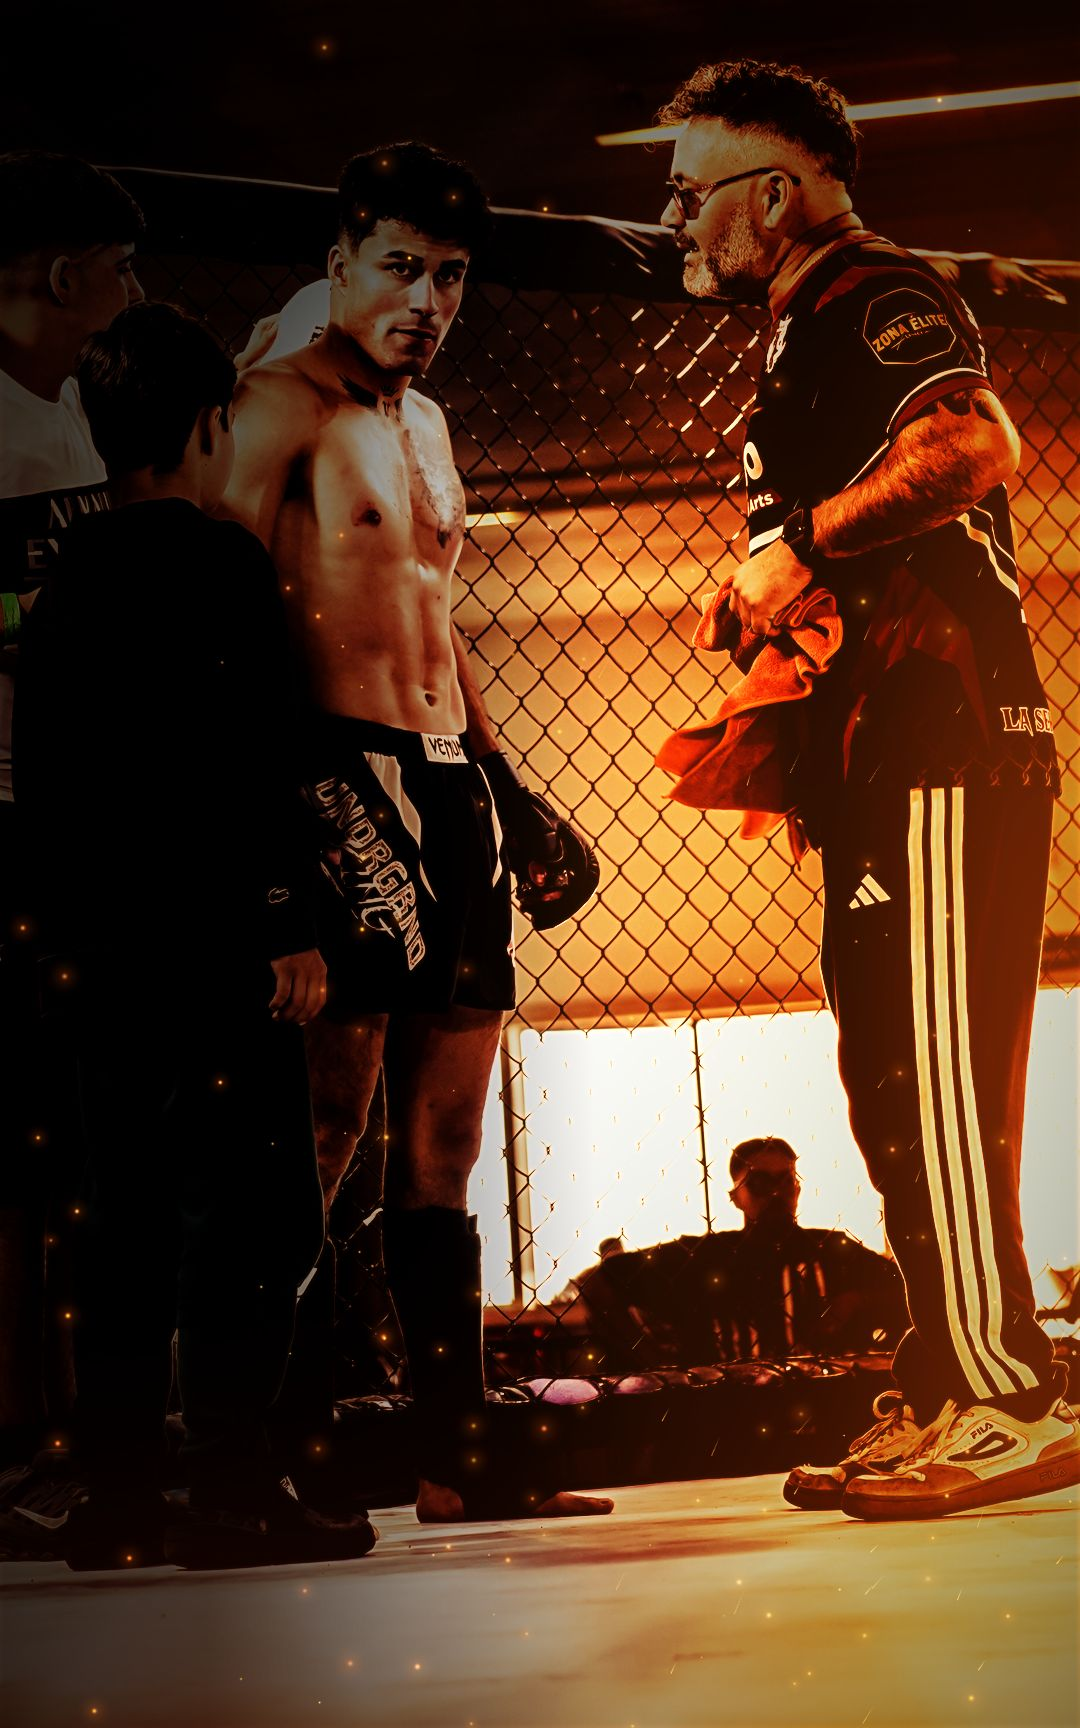
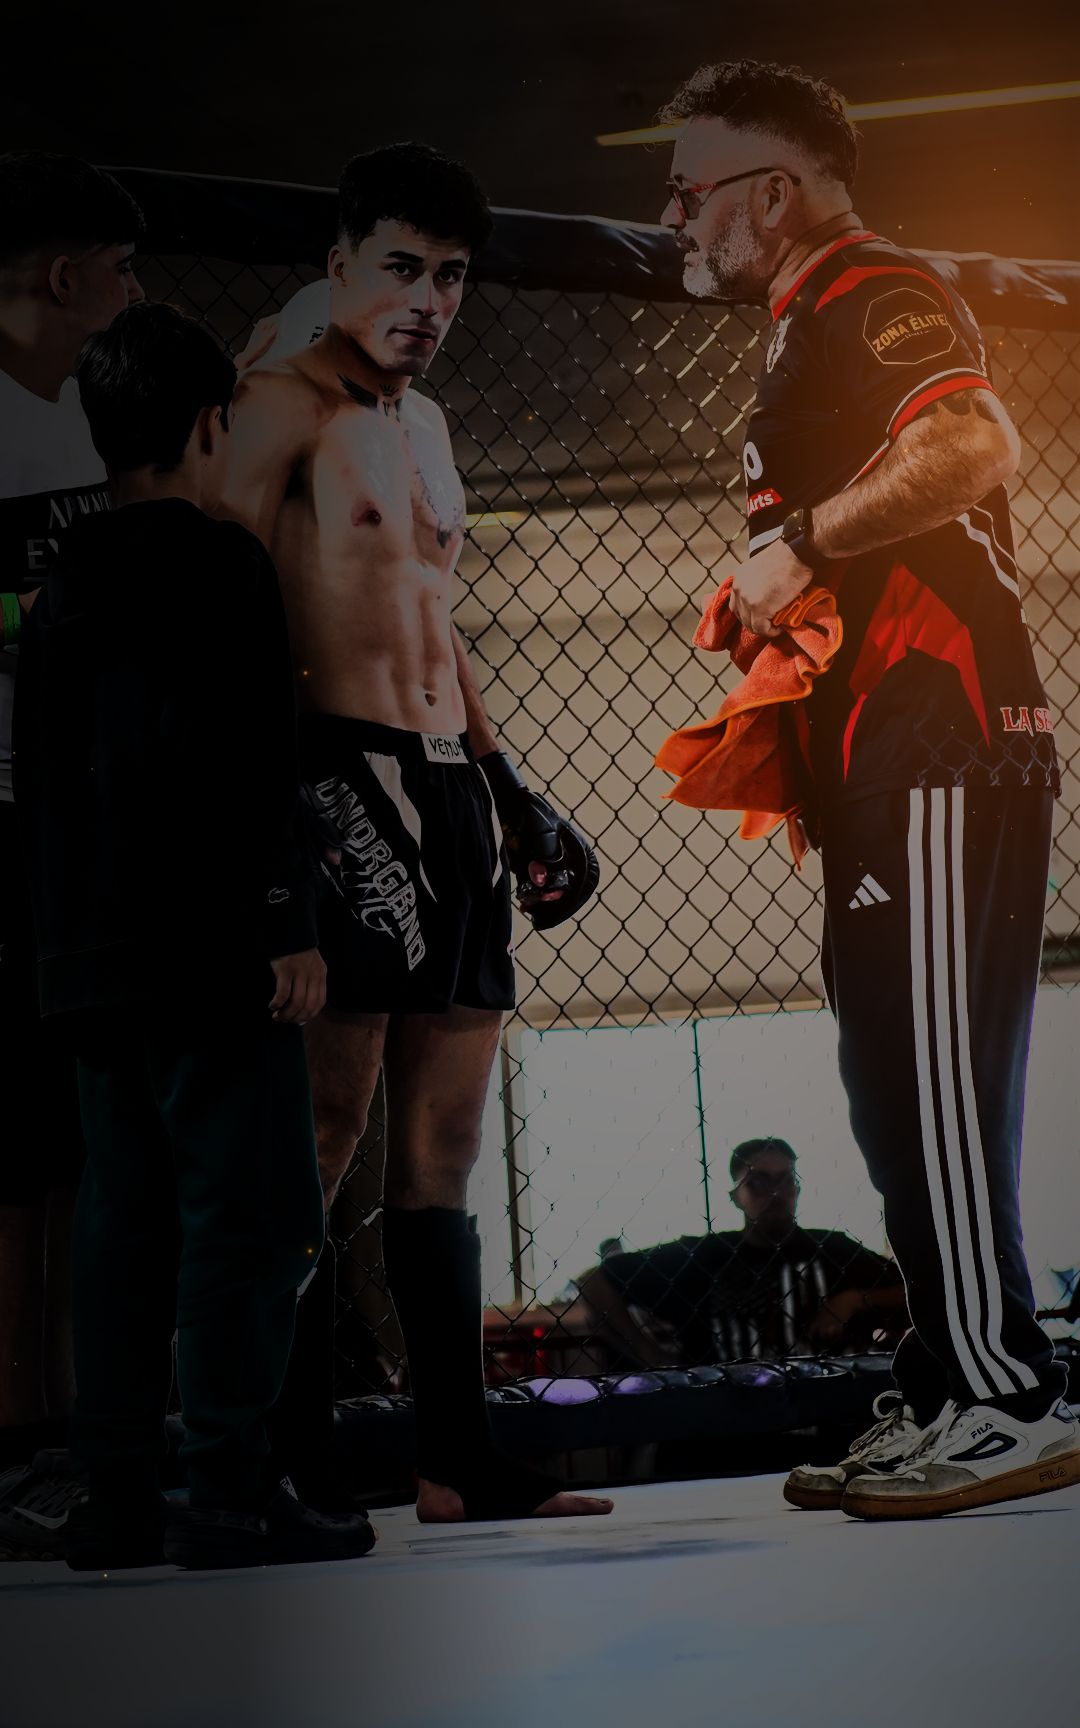
pruebs de color en el gradiente

diff --git a/src/app/globals.css b/src/app/globals.css
@@ -233,7 +233,7 @@ body {
   }
 }
 
-/* Resplandor de fuego que "respira" en la esquina inferior derecha */
+/* Aura sutil que "respira" detrás del maestro (lado derecho) */
 @keyframes fire-flicker {
   0%, 100% { opacity: 0.75; }
   20% { opacity: 0.95; }
@@ -243,11 +243,10 @@ body {
 
 .hero-fire-flicker {
   background: radial-gradient(
-      60% 55% at 100% 85%,
-      rgba(255, 90, 20, 0.35),
-      transparent 70%
-    ),
-    radial-gradient(45% 35% at 70% 105%, rgba(229, 38, 27, 0.3), transparent 70%);
+    35% 50% at 92% 40%,
+    rgba(255, 110, 30, 0.14),
+    transparent 70%
+  );
   mix-blend-mode: screen;
   animation: fire-flicker 3.5s ease-in-out infinite;
   pointer-events: none;

diff --git a/src/components/Hero.tsx b/src/components/Hero.tsx
@@ -1,9 +1,9 @@
 import Link from "next/link";
 
 // Brasas ascendentes (deterministas para no romper la hidratación).
-// Se concentran en la mitad derecha, donde la foto tiene el fuego.
-const embers = Array.from({ length: 22 }, (_, i) => ({
-  left: `${i % 3 === 0 ? (i * 37) % 100 : 45 + ((i * 29) % 55)}%`,
+// Se concentran a la derecha, en el aura detrás del maestro.
+const embers = Array.from({ length: 16 }, (_, i) => ({
+  left: `${i % 4 === 0 ? (i * 37) % 100 : 60 + ((i * 29) % 40)}%`,
   size: 3 + ((i * 7) % 6),
   duration: 6 + ((i * 5) % 8),
   delay: (i * 0.6) % 9,

diff --git a/scripts/grade-hero-image.py b/scripts/grade-hero-image.py
@@ -1,4 +1,4 @@
-"""Genera el fondo del hero (estilo 'fuego cinematográfico') desde la foto original.
+"""Genera el fondo del hero (tono natural + aura de fuego tras el maestro) desde la foto original.
 
 Requiere Pillow y numpy (pip install pillow numpy).
 Uso:
@@ -18,84 +18,63 @@ full = Image.open(src).convert("RGB")
 W, H = full.size  # 2624x3936
 
 
-def grade(img: Image.Image, people_box) -> Image.Image:
+def grade(img: Image.Image, aura) -> Image.Image:
+    """Tono natural con contraste cinematográfico y un aura naranja sutil
+    detrás del maestro. `aura` = (cx, cy, rx, ry) normalizados al recorte."""
     w, h = img.size
     a = np.asarray(img).astype(np.float32) / 255.0
 
-    # Luminancia
-    lum = 0.2126 * a[..., 0] + 0.7152 * a[..., 1] + 0.0722 * a[..., 2]
-
-    # Máscara "fondo brillante" (techo, focos, ventanas, lona blanca):
-    # se oscurece mucho para que todo lo plano quede en penumbra.
     yy, xx = np.mgrid[0:h, 0:w].astype(np.float32)
     nx, ny = xx / w, yy / h
-    x0, y0, x1, y1 = people_box
-    # distancia normalizada a la caja de los personajes (0 adentro)
-    dx = np.maximum(0, np.maximum(x0 - nx, nx - x1))
-    dy = np.maximum(0, np.maximum(y0 - ny, ny - y1))
-    outside = np.clip(np.sqrt(dx**2 + dy**2) * 4.0, 0, 1)
 
-    # Gradient map "fuego": negro -> rojo profundo -> naranja -> ámbar -> crema
-    stops = np.array([0.0, 0.18, 0.42, 0.68, 1.0])
-    cols = np.array([
-        [0.00, 0.00, 0.00],
-        [0.22, 0.03, 0.01],
-        [0.85, 0.26, 0.05],
-        [1.00, 0.62, 0.22],
-        [1.00, 0.92, 0.75],
-    ])
-    lc = np.clip(lum, 0, 1)
-    fm = np.stack([np.interp(lc, stops, cols[:, c]) for c in range(3)], -1)
+    # Bajar un poco la saturación (la foto viene muy "digital") sin teñirla
+    lum = (0.2126 * a[..., 0] + 0.7152 * a[..., 1] + 0.0722 * a[..., 2])[..., None]
+    a = lum + (a - lum) * 0.85
 
-    # Peso del gradient map: más fuerte fuera de la cara/cuerpos (fondo),
-    # y en la mitad derecha (detrás de la reja), más suave sobre la piel.
-    right = np.clip((nx - 0.45) / 0.4, 0, 1)
-    wmap = (0.32 + 0.45 * right + 0.2 * outside)[..., None]
-    a = a * (1 - wmap) + fm * wmap
+    # Contraste: curva S suave y negros más profundos
+    a = np.clip((a - 0.04) / 0.94, 0, 1)
+    a = 0.6 * a + 0.4 * (a * a * (3 - 2 * a))
+    a = np.power(a, 1.12)
 
-    # Contraste fuerte: curva S y negros aplastados
-    a = np.clip((a - 0.05) / 0.9, 0, 1)
-    a = a * a * (3 - 2 * a)
-    a = np.power(a, 1.15)
+    # Fondo claro (techo, paredes, ventanas) en penumbra: se comprimen las
+    # altas luces y se oscurecen techo y lado izquierdo (legibilidad del texto)
+    l2 = (0.2126 * a[..., 0] + 0.7152 * a[..., 1] + 0.0722 * a[..., 2])[..., None]
+    hi = np.clip((l2 - 0.55) / 0.35, 0, 1)
+    a = a * (1 - 0.35 * hi)
+    left_dark = np.clip(1 - (0.5 - nx) / 0.5, 0.45, 1)
+    top_dark = np.clip(ny / 0.22, 0.5, 1)
+    a = a * (0.82 * left_dark * top_dark)[..., None]
 
-    # Lado izquierdo y techo en penumbra (dramatismo + legibilidad del texto)
-    left_dark = np.clip(1 - (0.55 - nx) / 0.55, 0.35, 1)
-    top_dark = np.clip(ny / 0.25, 0.55, 1)
-    a = a * (left_dark * top_dark)[..., None] * (1 - 0.4 * outside[..., None])
-
-    # Luz de fuego: halo naranja a la derecha y abajo (screen)
+    # Aura del maestro: halo naranja suave (screen), más intenso hacia atrás
     def glow(cx, cy, rx, ry, color, strength):
         d = ((nx - cx) / rx) ** 2 + ((ny - cy) / ry) ** 2
-        g = np.exp(-d)[..., None] * strength
-        return g * np.array(color)
+        return np.exp(-d)[..., None] * strength * np.array(color)
 
-    fire = (
-        glow(1.00, 0.60, 0.22, 0.45, [1.0, 0.33, 0.04], 0.55)
-        + glow(0.85, 1.08, 0.35, 0.22, [1.0, 0.28, 0.03], 0.55)
-        + glow(0.15, 1.10, 0.30, 0.18, [0.9, 0.18, 0.02], 0.35)
-        + glow(0.62, 0.50, 0.12, 0.30, [1.0, 0.40, 0.08], 0.20)
+    acx, acy, arx, ary = aura
+    halo = (
+        glow(acx + arx * 0.45, acy, arx, ary, [1.0, 0.42, 0.10], 0.38)
+        + glow(acx + arx * 0.6, acy - ary * 0.3, arx * 0.55, ary * 0.5, [1.0, 0.55, 0.18], 0.2)
     )
-    a = 1 - (1 - a) * (1 - np.clip(fire, 0, 1))
+    a = 1 - (1 - a) * (1 - np.clip(halo, 0, 1))
 
-    # Rim light cálido sobre bordes de los personajes (realce del contorno)
+    # Contorno cálido solo alrededor del maestro (efecto "aura")
     base = Image.fromarray((np.clip(a, 0, 1) * 255).astype(np.uint8))
     edges = np.asarray(
-        base.convert("L").filter(ImageFilter.FIND_EDGES).filter(ImageFilter.GaussianBlur(2))
+        base.convert("L").filter(ImageFilter.FIND_EDGES).filter(ImageFilter.GaussianBlur(3))
     ).astype(np.float32) / 255.0
-    rim = (edges * (1 - outside) * 0.35)[..., None] * np.array([1.0, 0.45, 0.12])
-    a = a + rim
+    near = np.exp(-(((nx - acx) / (arx * 1.1)) ** 2 + ((ny - acy) / (ary * 1.1)) ** 2))
+    a = a + (edges * near * 0.22)[..., None] * np.array([1.0, 0.5, 0.15])
 
     # Viñeta
     vd = ((nx - 0.55) / 0.75) ** 2 + ((ny - 0.45) / 0.8) ** 2
-    vig = np.clip(1 - vd * 0.55, 0.25, 1)[..., None]
-    a = a * vig
+    a = a * np.clip(1 - vd * 0.5, 0.3, 1)[..., None]
 
     out = Image.fromarray((np.clip(a, 0, 1) * 255).astype(np.uint8))
-    return add_sparks(out, people_box)
+    return add_sparks(out, aura)
 
 
-def add_sparks(img: Image.Image, people_box) -> Image.Image:
-    """Chispas y brasas estáticas (las animadas se hacen en CSS)."""
+def add_sparks(img: Image.Image, aura) -> Image.Image:
+    """Chispas y brasas estáticas alrededor del aura (las animadas se hacen en CSS)."""
     w, h = img.size
     layer = Image.new("RGB", (w, h), (0, 0, 0))
     px = np.zeros((h, w, 3), np.float32)
@@ -110,35 +89,37 @@ def add_sparks(img: Image.Image, people_box) -> Image.Image:
         px[y0:y1, x0:x1] += np.exp(-d2)[..., None] * np.array(color) * intensity
 
     scale = w / 1600
-    # Brasas: más densas a la derecha y abajo
-    n = int(110 * (w * h) / (1600 * 900))
+    acx, acy, arx, ary = aura
+    # Brasas: pocas, alrededor del aura del maestro y algunas sueltas
+    n = int(45 * (w * h) / (1600 * 900))
     for _ in range(n):
-        x = w * (rng.beta(2.2, 1.2))
-        y = h * (rng.beta(1.6, 1.0))
-        if rng.random() < 0.35:
-            x = w * rng.random()
-        r = scale * rng.uniform(1.0, 3.4)
-        col = [1.0, rng.uniform(0.45, 0.75), rng.uniform(0.1, 0.25)]
-        stamp(x, y, r, col, rng.uniform(0.5, 1.4))
-        if r > 1.8 * scale:  # halo
-            stamp(x, y, r * 5, [1.0, 0.35, 0.05], 0.18)
+        if rng.random() < 0.75:
+            x = w * (acx + rng.normal(0.1, 0.6) * arx)
+            y = h * (acy + rng.normal(0, 0.7) * ary)
+        else:
+            x, y = w * rng.random(), h * rng.uniform(0.3, 1.0)
+        r = scale * rng.uniform(0.8, 2.6)
+        col = [1.0, rng.uniform(0.5, 0.75), rng.uniform(0.15, 0.3)]
+        stamp(x, y, r, col, rng.uniform(0.35, 0.9))
+        if r > 2.0 * scale:  # halo
+            stamp(x, y, r * 4, [1.0, 0.4, 0.08], 0.1)
 
-    # Chispas en trazo (motion blur diagonal), lado derecho
-    m = int(55 * (w * h) / (1600 * 900))
+    # Chispas en trazo (motion blur diagonal) detrás del maestro
+    m = int(14 * (w * h) / (1600 * 900))
     for _ in range(m):
-        x = w * rng.uniform(0.55, 1.0)
-        y = h * rng.uniform(0.2, 1.0)
-        length = scale * rng.uniform(14, 40)
+        x = w * (acx + rng.uniform(0.0, 1.2) * arx)
+        y = h * (acy + rng.uniform(-0.6, 0.9) * ary)
+        length = scale * rng.uniform(10, 26)
         ang = np.deg2rad(rng.uniform(-75, -45))
-        steps = 16
+        steps = 12
         for i in range(steps):
             t = i / steps
             stamp(
                 x + np.cos(ang) * length * t,
                 y + np.sin(ang) * length * t,
-                scale * 0.9,
-                [1.0, 0.55, 0.15],
-                0.85 * (1 - t),
+                scale * 0.8,
+                [1.0, 0.6, 0.2],
+                0.5 * (1 - t),
             )
 
     layer = Image.fromarray((np.clip(px, 0, 1) * 255).astype(np.uint8))
@@ -152,14 +133,14 @@ def add_sparks(img: Image.Image, people_box) -> Image.Image:
 # Desktop: banda horizontal desde la parte alta de la jaula hasta la cintura
 crop_desk = full.crop((0, 940, W, 940 + int(W * 9 / 16)))
 crop_desk = crop_desk.resize((2400, int(2400 * 9 / 16)), Image.LANCZOS)
-# caja de personajes en coords normalizadas de este recorte
-desk = grade(crop_desk, (0.05, 0.0, 0.95, 1.0))
+# aura del maestro (cx, cy, rx, ry) en coords normalizadas de este recorte
+desk = grade(crop_desk, (0.80, 0.35, 0.20, 0.45))
 desk.save(out_desk, quality=82, optimize=True, progressive=True)
 
 # Mobile: recorte vertical centrado en el peleador y el coach
 mx0 = int(W * 0.22)
 crop_mob = full.crop((mx0, 800, mx0 + int(W * 0.7), 800 + int(W * 0.7 * 16 / 10)))
 crop_mob = crop_mob.resize((1080, int(1080 * 16 / 10)), Image.LANCZOS)
-mob = grade(crop_mob, (0.0, 0.0, 1.0, 0.9))
+mob = grade(crop_mob, (0.80, 0.25, 0.28, 0.30))
 mob.save(out_mob, quality=80, optimize=True, progressive=True)
 print("ok", desk.size, mob.size)

diff --git a/contexto/requisitos/rediseno-fuego-oro.md b/contexto/requisitos/rediseno-fuego-oro.md
@@ -16,8 +16,9 @@ Roles: afecta solo lo visual público (visitantes y alumnos). Sin cambios de dat
 - **Imagen de fondo**: `scripts/grade-hero-image.py` (Pillow + numpy) toma `public/original.jpg` y genera:
   - `public/hero-fire.jpg` (2400×1350, 16:9, encuadre desde la parte alta de la jaula hasta la cintura, para escritorio);
   - `public/hero-fire-mobile.jpg` (1080×1728, recorte vertical del peleador y el coach, para móvil).
-  El proceso: gradient map de fuego (negro → rojo profundo → naranja → ámbar), más fuerte en la mitad derecha (detrás de la reja) y más suave sobre la piel; curva S de contraste; penumbra a la izquierda y en el techo; halos de fuego aditivos (derecha y abajo); rim light cálido; viñeta; brasas estáticas y chispas en trazo diagonal.
-- **Hero (`src/components/Hero.tsx`)**: dos capas de fondo (`md:hidden` / `hidden md:block`), `hero-fire-overlay` (oscurece la izquierda para leer el texto y funde con la sección siguiente), `hero-fire-flicker` (resplandor animado en la esquina inferior derecha) y 22 brasas `ember ember-fire` deterministas. Titular `text-gold-metal` + `text-fire`, párrafo blanco con borde `ember`, CTAs `btn-fire` / `btn-gold-outline`, checks dorados.
+  El proceso conserva el **tono natural** (solo baja un poco la saturación): curva S de contraste, compresión de altas luces (techo, paredes, ventanas), penumbra a la izquierda y en el techo, viñeta y un **aura naranja sutil detrás del maestro** (halo en modo screen + contorno cálido solo a su alrededor), con pocas brasas y chispas cerca de él. La posición del aura se pasa por recorte (`grade(crop, (cx, cy, rx, ry))`).
+  - Primera versión (descartada por el usuario el 2026-10-23): gradient map de fuego sobre toda la foto, quedaba demasiado naranja.
+- **Hero (`src/components/Hero.tsx`)**: dos capas de fondo (`md:hidden` / `hidden md:block`), `hero-fire-overlay` (oscurece la izquierda para leer el texto y funde con la sección siguiente), `hero-fire-flicker` (aura animada muy suave detrás del maestro) y 16 brasas `ember ember-fire` deterministas, concentradas a la derecha. Titular `text-gold-metal` + `text-fire`, párrafo blanco con borde `ember`, CTAs `btn-fire` / `btn-gold-outline`, checks dorados.
 - **Navbar (`src/components/Navbar.tsx`)**: fondo casi negro, línea inferior `nav-fire-line` (rojo → naranja → oro), links en Anton (hover dorado, activo `text-ember` con glow), logotipo `text-brand-fire`, Perfil `btn-gold`, Únete `btn-fire` (también en el menú móvil).
 - **Estilos (`src/app/globals.css`)**: tokens `--color-gold`, `--color-gold-light`, `--color-ember`, `--color-fire` (utilidades `text-gold`, `border-ember`, etc.) y las clases nuevas. `.btn-primary-gradient` pasa a rojo-naranja (`#ff6a1a → #e5261b → #b71c1c`), así que todos los CTAs del sitio quedan alineados.
 

diff --git a/contexto/BRAIN.md b/contexto/BRAIN.md
@@ -36,7 +36,7 @@
 
 **Diseño:** Material Design 3 dark (`#131313` fondo, `#ffb4ac` primary, `#ff544c` primary container). Fuentes Anton (títulos), Hanken Grotesk (cuerpo), JetBrains Mono (labels) vía `next/font/google`. Iconos **Material Symbols Outlined** (CDN). Clases utilitarias propias: `.glass-panel`, `.glass-card`, `.btn-primary-gradient`, `.hero-gradient`, `.text-glow-red`, `.fade-up` (animadas por `FadeUpObserver`).
 
-**Marca "fuego y oro" (v1.15.0):** tokens `--color-gold` (`#f5b942`), `--color-gold-light`, `--color-ember` (`#ff5a1f`), `--color-fire` (`#e5261b`) → utilidades `text-gold`, `border-ember`, etc. Clases: `.text-gold-metal` / `.text-fire` (titulares con degradado), `.text-brand-fire` (logotipo), `.btn-fire` (CTA principal rojo→naranja con glow), `.btn-gold-outline` (CTA secundario), `.btn-gold` (Perfil), `.nav-fire-line`, `.hero-fire-overlay`, `.hero-fire-flicker`, `.ember.ember-fire`. `.btn-primary-gradient` también es rojo→naranja. El fondo del hero es `public/hero-fire.jpg` / `hero-fire-mobile.jpg`, generado desde `public/original.jpg` con `scripts/grade-hero-image.py` (Pillow + numpy). Para CTAs nuevos usar `btn-fire` / `btn-gold-outline`.
+**Marca "fuego y oro" (v1.15.0):** tokens `--color-gold` (`#f5b942`), `--color-gold-light`, `--color-ember` (`#ff5a1f`), `--color-fire` (`#e5261b`) → utilidades `text-gold`, `border-ember`, etc. Clases: `.text-gold-metal` / `.text-fire` (titulares con degradado), `.text-brand-fire` (logotipo), `.btn-fire` (CTA principal rojo→naranja con glow), `.btn-gold-outline` (CTA secundario), `.btn-gold` (Perfil), `.nav-fire-line`, `.hero-fire-overlay`, `.hero-fire-flicker`, `.ember.ember-fire`. `.btn-primary-gradient` también es rojo→naranja. El fondo del hero es `public/hero-fire.jpg` / `hero-fire-mobile.jpg`, generado desde `public/original.jpg` con `scripts/grade-hero-image.py` (Pillow + numpy): tono natural + aura naranja **sutil** solo detrás del maestro (el usuario rechazó teñir toda la foto de naranja). Para CTAs nuevos usar `btn-fire` / `btn-gold-outline`.
 
 **Variables de entorno:**
 

diff --git a/documentacion/flujo-modulos.md b/documentacion/flujo-modulos.md
@@ -357,7 +357,7 @@ Este documento detalla **cada módulo** de la aplicación web ZonaElite, su fluj
 **Problema**: el hero y la barra de navegación tenían poco contraste y poca energía frente a la referencia `idea.jpeg`.
 
 **Solución**:
-- **Fondo**: `public/hero-fire.jpg` (escritorio, 16:9) y `public/hero-fire-mobile.jpg` (móvil, vertical), generados con `scripts/grade-hero-image.py` desde `public/original.jpg`: gradient map de fuego, contraste en curva S, penumbra a la izquierda, halos naranjas, rim light, viñeta y chispas. Sobre la foto: `hero-fire-overlay` (legibilidad), `hero-fire-flicker` (resplandor animado) y brasas `ember ember-fire` deterministas.
+- **Fondo**: `public/hero-fire.jpg` (escritorio, 16:9) y `public/hero-fire-mobile.jpg` (móvil, vertical), generados con `scripts/grade-hero-image.py` desde `public/original.jpg`: tono natural con contraste en curva S, penumbra a la izquierda y en el techo, viñeta y un aura naranja sutil detrás del maestro, con chispas cerca de él. Sobre la foto: `hero-fire-overlay` (legibilidad), `hero-fire-flicker` (aura animada suave) y brasas `ember ember-fire` deterministas a la derecha.
 - **Hero**: titular `text-gold-metal` / `text-fire`, CTAs `btn-fire` / `btn-gold-outline`, checks dorados.
 - **Navbar**: logotipo `text-brand-fire`, links en Anton (hover dorado, activo en `ember`), línea inferior `nav-fire-line`, Perfil `btn-gold`, Únete `btn-fire`.
 - **Global**: tokens de marca en `@theme` y `.btn-primary-gradient` en rojo→naranja.

diff --git a/documentacion/requisitos-implementados.md b/documentacion/requisitos-implementados.md
@@ -380,7 +380,7 @@ Este documento contiene un desglose exhaustivo de los requisitos de negocio y fu
 - **Verificación**: suite sección **AK** (12 asserts); conteo de seeds 18 → 19; `npx tsc --noEmit` limpio; lint sin errores nuevos.
 
 ## 37. Rediseño Visual "Fuego y Oro" (2026-10-23)
-**Requisito**: mejorar la UX/UI tomando como referencia `idea.jpeg`: foto de fondo cinematográfica con fuego y chispas, titular dorado + rojo incandescente, CTA principal rojo→naranja con glow, CTA secundario con borde dorado, y toques de dorado y rojo en la barra de navegación y el botón Perfil.
+**Requisito**: mejorar la UX/UI tomando como referencia `idea.jpeg`: foto de fondo con contraste cinematográfico en tono natural y un aura de fuego sutil detrás del maestro (el usuario descartó una primera versión toda en naranja), titular dorado + rojo incandescente, CTA principal rojo→naranja con glow, CTA secundario con borde dorado, y toques de dorado y rojo en la barra de navegación y el botón Perfil.
 - **Requisito + análisis de impacto**: `contexto/requisitos/rediseno-fuego-oro.md`.
 - **Código**: `src/components/Hero.tsx`, `src/components/Navbar.tsx`, `src/app/globals.css` (tokens + clases), `public/hero-fire.jpg`, `public/hero-fire-mobile.jpg`, `scripts/grade-hero-image.py`.
 - **Changelog**: entrada **v1.15.0** (`contexto/migrations/046_changelog_v1_15_0.sql`), sin cambios de esquema.
